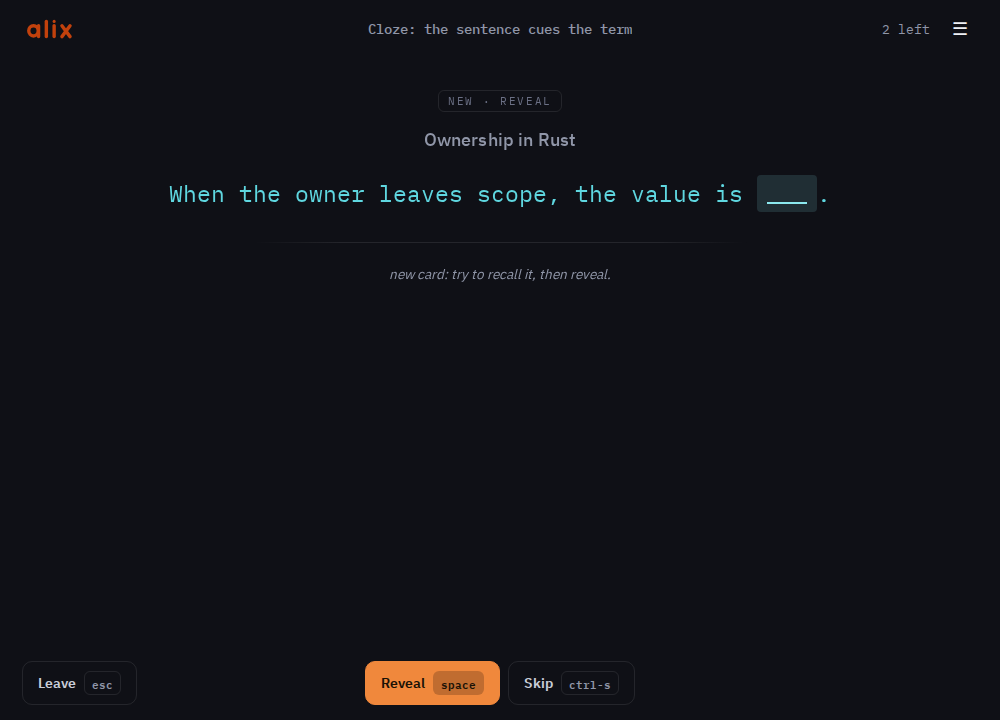
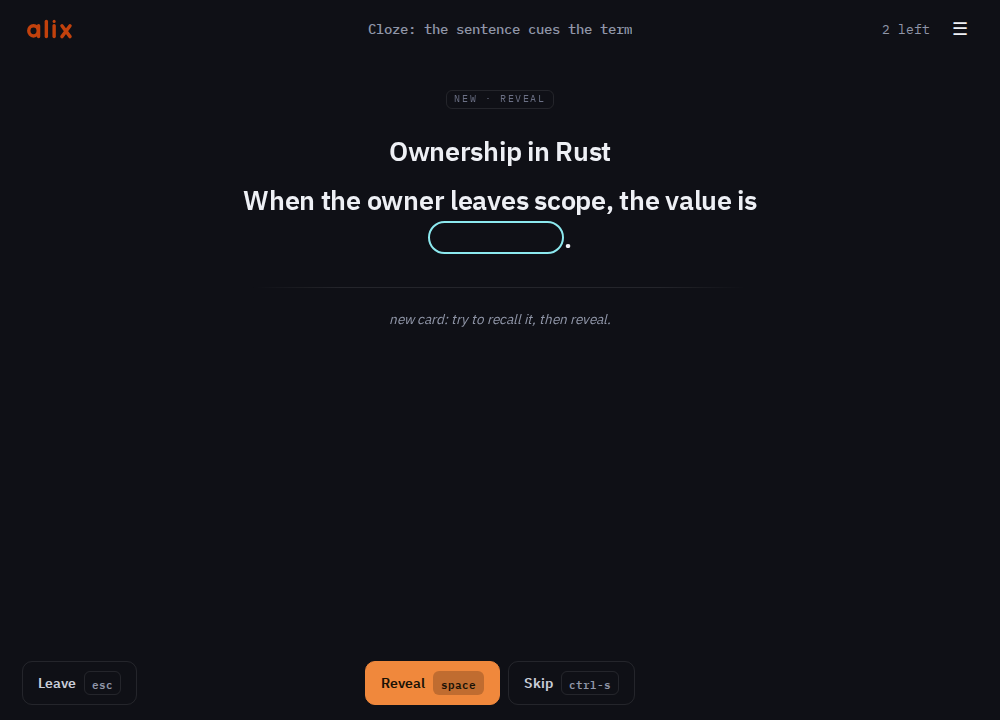
docs(cloze): tracked decks and docs teach the answerless cloze shape
ADR 0052 slice 8. Every tracked `blank:`, `cover:` and `crop:` was read
in its card; slices 1 to 7 had already moved the tests and fixtures, so
what remained was docs and assets:

- The bundled tutorial deck (both copies): the gap-fill card's sentence
  moves onto its `##` line; its `b:` stamp is kept.
- Book ch. 4 and 6, the README and the slides no longer say a blank hides
  part of "the answer". Ch. 6 gains a sentence-on-`##` example, and its
  group snippet gets the image line its rect blanks bind to (doctor
  rejected it as written).
- `docs/examples/syntax/math-cloze.md`: the derivative card's hidden `n`
  also showed in `x^n`, which the new leak lint flags; the blanks are now
  `x^n` and `x^{n-1}`. The cloze example screenshot is re-shot.

Every touched deck and fenced snippet passes `alix doctor` with no
errors. `position:` stays: the stamper still mints it.

diff --git a/site/slides.html b/site/slides.html
@@ -458,7 +458,7 @@ Consistency, Availability, Partition tolerance.
     <p class="eyebrow"><span class="k">A</span> · appendix — the deck format on one slide</p>
     <table class="tbl">
       <tr><td>## front</td><td>starts a card; the plain lines below are the answer</td></tr>
-      <tr><td>&lt;!-- blank: span hidden="..." --&gt;</td><td>cloze: each hidden span of the answer becomes its own sub-card</td></tr>
+      <tr><td>&lt;!-- blank: span hidden="..." --&gt;</td><td>cloze: each hidden span of the block above becomes its own sub-card</td></tr>
       <tr><td>- [x] / - [ ] + &lt;!-- choices: single --&gt;</td><td>a mapped task list is a choice card; bare, it stays a literal checklist</td></tr>
       <tr><td>&gt; [!NOTE] + &gt; text</td><td>a badged blockquote is a note shown after answering</td></tr>
       <tr><td>&lt;!-- reveal: line --&gt;</td><td>flip &#183; line — how a card presents; how deeply you drill is a per-session choice</td></tr>

diff --git a/docs/book/src/06-cloze-direction-images.md b/docs/book/src/06-cloze-direction-images.md
@@ -5,10 +5,10 @@ from chapter 3.
 
 ## Cloze cards: fill in the blank
 
-A cloze card hides part of the answer; you create one by pointing a
-`blank:` directive at a span of the answer text.
+A cloze card hides part of its own text; you create one by pointing a
+`blank:` directive at a span of the block above it.
 
-Write the answer as ordinary prose, then name the hidden text in a
+Write the sentence as ordinary prose, then name the hidden text in a
 `<!-- blank: span hidden="..." -->` comment directly below it. A directive
 binds to the block directly above it (a run of text lines, an image line, a
 code fence or a `$$` block), and the hidden text must be in that block.
@@ -26,6 +26,13 @@ let mut x: u64 = 0;
 <!-- blank: span hidden="u64" -->
 ```
 
+The `##` line may itself be the sentence, which needs no separate heading:
+
+```
+## A value is dropped when its owner goes out of scope.
+<!-- blank: span hidden="dropped" -->
+```
+
 This makes two cards. One blanks `mut` and shows the rest; the other blanks
 `u64`. Each card's question is the whole card from its `##` line down, with
 the asked span shown as `⍰` and the *other* spans hidden as `⬚`, so no card
@@ -37,7 +44,7 @@ gap never hints at the answer's length, and highlight the filled text in the
 accent colour. A card asking several spans at once (a named group) fills one span per
 press under `reveal: line`, all at once under `flip`.
 
-The hidden text must appear in the answer exactly as written. When it appears
+The hidden text must appear in the bound block exactly as written. When it appears
 more than once, `occurrence=2` picks the second match; matches snap to word
 boundaries unless the directive says `boundary=char`.
 
@@ -257,6 +264,8 @@ cloze groups and with the same warning, a regrouped card starts its history
 over:
 
 ```
+## Name the organelles
+![a cell](cell.png)
 <!-- blank: rect x=10 y=40 width=80 height=30 hidden="mitochondrion" [organelles] -->
 <!-- blank: rect x=10 y=90 width=80 height=30 hidden="nucleus" [organelles] -->
 ```

diff --git a/README.md b/README.md
@@ -75,8 +75,8 @@ The front is the `## ` line; the plain lines below are the answer. A `> [!NOTE]`
 line opens a note shown after you answer (a blockquote without one of GitHub's
 five alert badges is a quotation, and belongs to the answer), and a `<!-- -->`
 directive on a card tunes it
-(here the `blank:` directive hides `mut` in the answer, making the card a
-fill-in-the-blank). Run `alix deck init <file>` once on a hand-written deck: it mints the
+(here the `blank:` directive hides `mut` in the line directly above it, making
+the card a fill-in-the-blank with no answer lines). Run `alix deck init <file>` once on a hand-written deck: it mints the
 stable deck and card ids that make the file appear in the picker and carry
 review history. Full format and every directive:
 [the deck format](docs/book/src/03-the-deck-format.md),

diff --git a/assets/decks/tutorial.md b/assets/decks/tutorial.md
@@ -28,8 +28,7 @@ a fake "Got it" hides the card before you know it
 > the cards you still need. The three grade taps (Missed it / Partly /
 > Got it) are the whole interface of a review.
 
-## Why does a card you keep getting right appear more and more rarely?
-alix re-shows each card just before you would forget it
+## A card you keep getting right appears more and more rarely, because alix re-shows each card just before you would forget it.
 <!-- blank: span hidden="forget" b:t4mem7 -->
 > [!NOTE]
 > And a card you miss comes back soon. That spacing is the trick

diff --git a/mobile/alix/assets/decks/tutorial.md b/mobile/alix/assets/decks/tutorial.md
@@ -28,8 +28,7 @@ a fake "Got it" hides the card before you know it
 > the cards you still need. The three grade taps (Missed it / Partly /
 > Got it) are the whole interface of a review.
 
-## Why does a card you keep getting right appear more and more rarely?
-alix re-shows each card just before you would forget it
+## A card you keep getting right appears more and more rarely, because alix re-shows each card just before you would forget it.
 <!-- blank: span hidden="forget" b:t4mem7 -->
 > [!NOTE]
 > And a card you miss comes back soon. That spacing is the trick

diff --git a/CHANGELOG.md b/CHANGELOG.md
@@ -155,6 +155,10 @@ adheres to [Semantic Versioning](https://semver.org/spec/v2.0.0.html).
   with no separate question or answer lines; the shared card-shape guide
   teaches the same shape.
 
+- The bundled tutorial deck's gap-fill card is the sentence on its `##` line,
+  and the book, README and slides describe a blank as hiding text in the
+  block above it.
+
 - An image `blank:` requires `hidden="..."`, like a text blank, and no
   `blank:` accepts one that is empty once grading ignores spaces, invisible
   characters and trailing punctuation. A rect

diff --git a/docs/book/src/04-review-modes.md b/docs/book/src/04-review-modes.md
@@ -25,7 +25,7 @@ frontmatter, or per card with a `<!-- reveal: ... -->` directive (default `flip`
   frontmatter to walk the deck top to bottom.
 
 A card becomes **cloze** (a gap to fill) when a `blank:` directive hides a
-span of its answer; the directive is the trigger, never a `reveal:` value.
+span of the text directly above it; the directive is the trigger, never a `reveal:` value.
 See [cloze cards](06-cloze-direction-images.md).
 
 ```

diff --git a/docs/examples/syntax/math-cloze.md b/docs/examples/syntax/math-cloze.md
@@ -26,8 +26,8 @@ $e^{i\pi} + 1 = 0$
 
 ## The derivative of a power
 $$\frac{d}{dx}x^n = n x^{n-1}$$
-<!-- blank: span hidden="n" occurrence=2 b:p2wrn6 -->
-<!-- blank: span hidden="n-1" b:p8wn17 -->
+<!-- blank: span hidden="x^n" b:p2wrn6 -->
+<!-- blank: span hidden="x^{n-1}" b:p8wn17 -->
 > [!NOTE]
 > Two blanks, two sub-cards, drilled separately. The exponent rule fails
 > in two different places, so it is worth separating them.

diff --git a/docs/examples/shapes/cloze.md b/docs/examples/shapes/cloze.md
@@ -1,7 +1,7 @@
 ---
 title: "Cloze: the sentence cues the term"
 description: >-
-  Hide a span with a blank: span comment below the answer line. The context
+  Hide a span with a blank: span comment directly below its sentence. The context
   does the cueing, so recall is anchored where the term will be used.
 id: "deck-3na8f2nm1bcqhd2cacvam3y23c"
 ---
